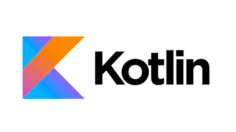
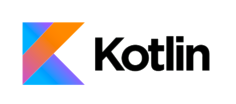
added corect images

diff --git a/src/components/SkillsContainer.jsx b/src/components/SkillsContainer.jsx
@@ -25,7 +25,7 @@ const ContainerTitle = styled.div`
 `;
 
 const ImageHolder = styled.img`
-  width: 200px;
+  width: 180px;
   max-height: 150px;
   margin: 30px;
   vertical-align: middle;
